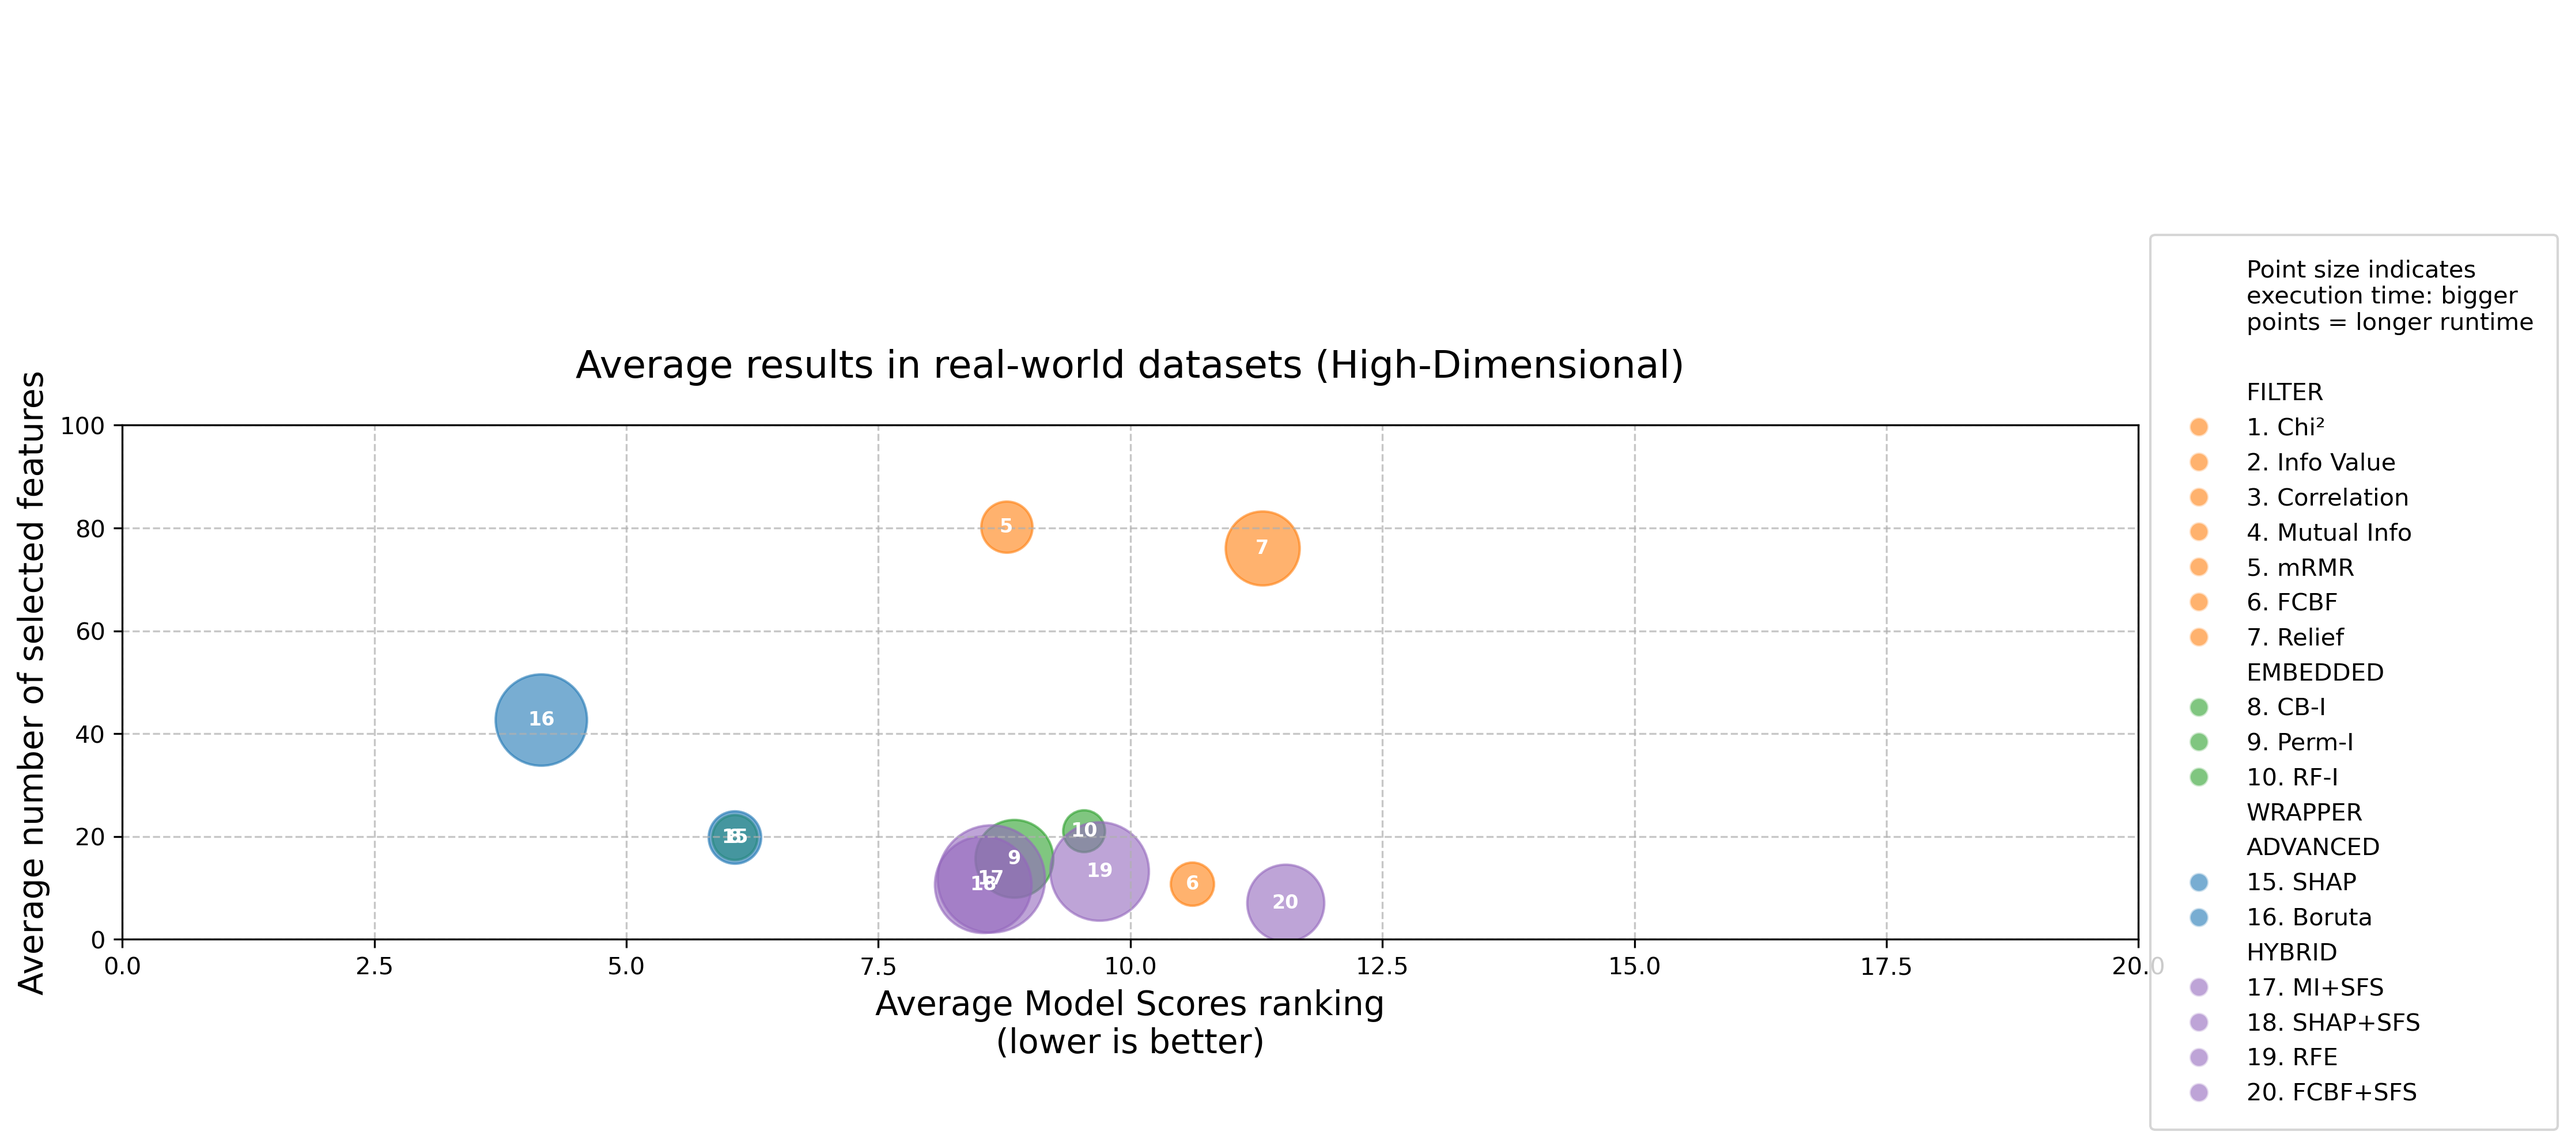
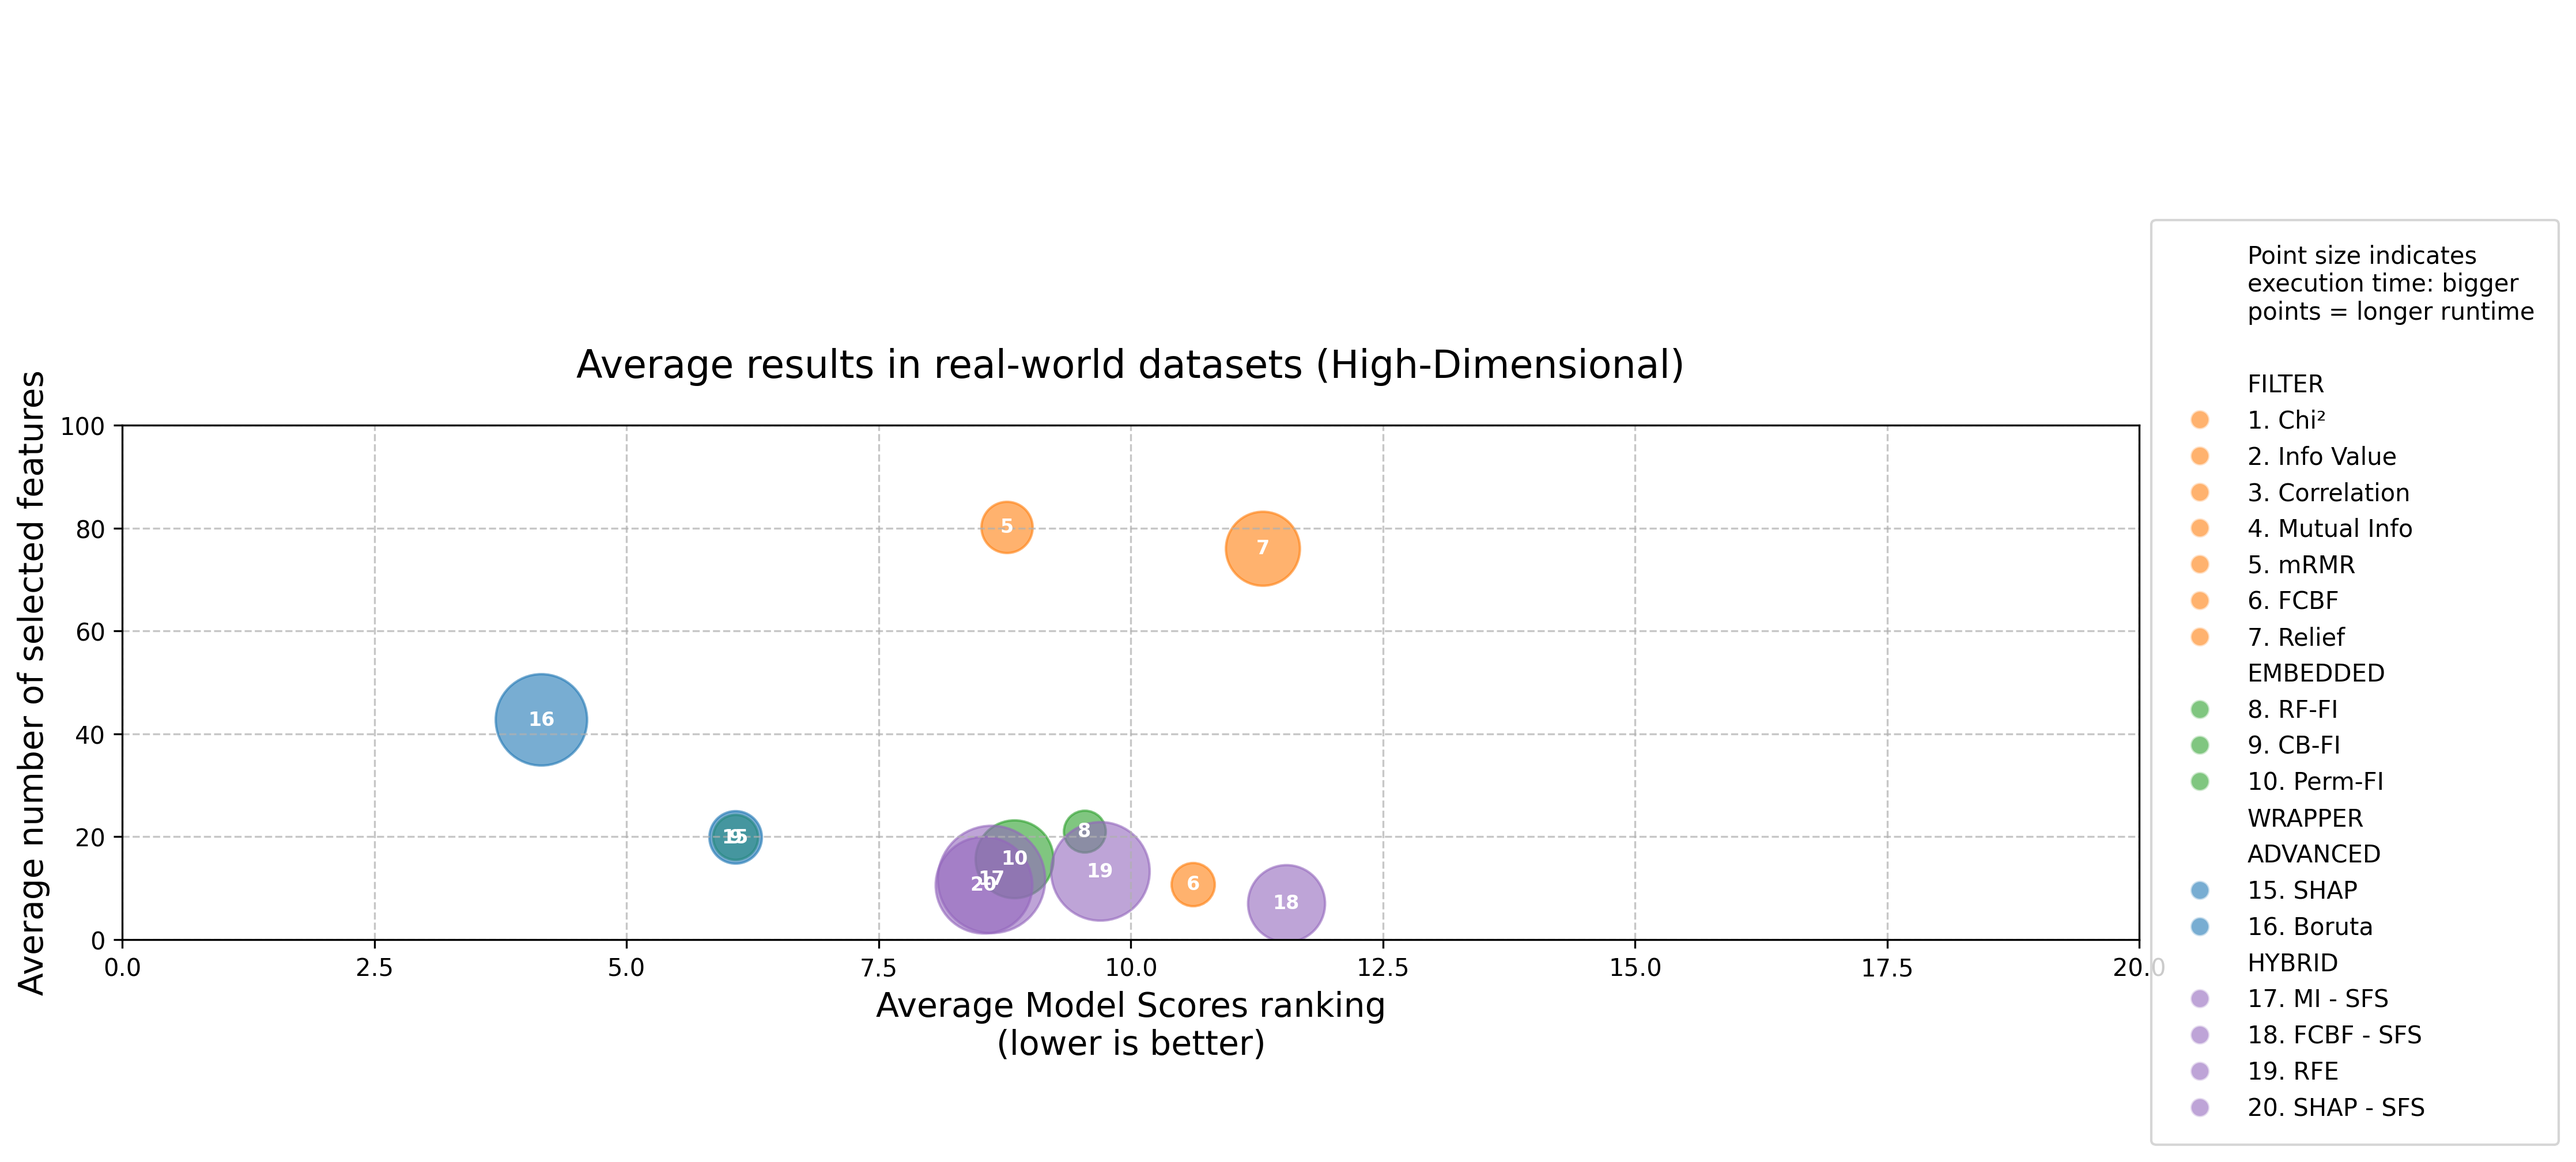
corrected order methods

diff --git a/generate_plots.py b/generate_plots.py
@@ -17,9 +17,9 @@ METHOD_ORDER = {
     'relief': 7,
     
     # Embedded methods (8-10)
-    'cb_fimportances': 8,
-    'permutation_importance': 9,
-    'rf_fimportances': 10,
+    'rf_fimportances': 8,
+    'cb_fimportances': 9,
+    'permutation_importance': 10,
     
     # Wrapper methods (11-14)
     'seq_backward': 11,
@@ -33,9 +33,9 @@ METHOD_ORDER = {
     
     # Hybrid methods (17-20)
     'hybrid_nmi_sfs': 17,
-    'hybrid_shap_sfs': 18,
+    'hybrid_fcbf_sfs': 18,
     'hybrid_rfe': 19,
-    'hybrid_fcbf_sfs': 20
+    'hybrid_shap_sfs': 20
 }
 
 METHOD_NAMES = {
@@ -49,9 +49,9 @@ METHOD_NAMES = {
     'relief': 'Relief',
     
     # Embedded methods
-    'cb_fimportances': 'CB-I',
-    'permutation_importance': 'Perm-I',
-    'rf_fimportances': 'RF-I',
+    'rf_fimportances': 'RF-FI',
+    'cb_fimportances': 'CB-FI',
+    'permutation_importance': 'Perm-FI',
     
     # Wrapper methods
     'seq_backward': 'SBS',
@@ -64,10 +64,11 @@ METHOD_NAMES = {
     'boruta': 'Boruta',
     
     # Hybrid methods
-    'hybrid_nmi_sfs': 'MI+SFS',
-    'hybrid_shap_sfs': 'SHAP+SFS',
+    'hybrid_nmi_sfs': 'MI - SFS',
+    'hybrid_fcbf_sfs': 'FCBF - SFS',
     'hybrid_rfe': 'RFE',
-    'hybrid_fcbf_sfs': 'FCBF+SFS'
+    'hybrid_shap_sfs': 'SHAP - SFS',
+
 }
 
 # Keep existing color schemes and family mappings
@@ -90,9 +91,9 @@ METHOD_FAMILIES = {
     'relief': 'filter',
     
     # Embedded methods
+    'rf_fimportances': 'embedded',
     'cb_fimportances': 'embedded',
     'permutation_importance': 'embedded',
-    'rf_fimportances': 'embedded',
     
     # Wrapper methods
     'seq_backward': 'wrapper',
@@ -106,9 +107,10 @@ METHOD_FAMILIES = {
     
     # Hybrid methods
     'hybrid_nmi_sfs': 'hybrid',
-    'hybrid_shap_sfs': 'hybrid',
+    'hybrid_fcbf_sfs': 'hybrid',
     'hybrid_rfe': 'hybrid',
-    'hybrid_fcbf_sfs': 'hybrid'
+    'hybrid_shap_sfs': 'hybrid'
+ 
 }
 
 FAMILY_ORDER = ['filter', 'embedded', 'wrapper', 'advanced', 'hybrid']
